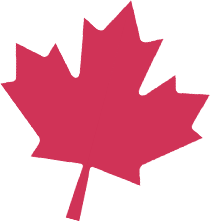
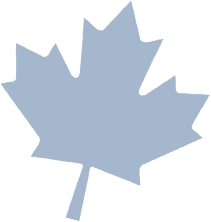
nicer maple leaf graphic, better button positions

diff --git a/public/weather_style.css b/public/weather_style.css
@@ -5,12 +5,13 @@
 {
 	margin: 0;
 	padding: 0;
+	font-family: Helvetica, sans-serif;
 }
 
 body
 {
 	margin: 30px auto;
-	width: 600px;
+	width: 570px;
 	background-image: url("http://fc02.deviantart.net/fs71/i/2012/015/d/9/background__snow_by_ayachi_chan-d4mhacw.png");
 
 	color: #0e2f56;
@@ -29,6 +30,7 @@ h1, h2, h3, h4, h5, h6
 h1
 {
 	line-height: 30px;
+	margin-bottom: 5px;
 }
 
 img#maple_flag
@@ -43,10 +45,11 @@ div#update_data
 {
 	text-align: right;
 	font-size: 12px;
-	font-family: Helvetica, sans-serif;
 }
 
+
 /* temperature list */
+
 
 table
 {
@@ -78,13 +81,14 @@ table tr:nth-child(even)
 	background-color: rgba(255,255,255,0.2);
 }
 
+
 /* control button list */
+
 
 ul#controls
 {
 	list-style: none;
-	background-color: green;
-	width: 50%;
+	width: 100%;
 }
 
 ul#controls li
@@ -102,7 +106,9 @@ ul#controls li button
 	cursor: pointer;
 }
 
+
 /* map and city markers */
+
 
 div.canada_map
 {
